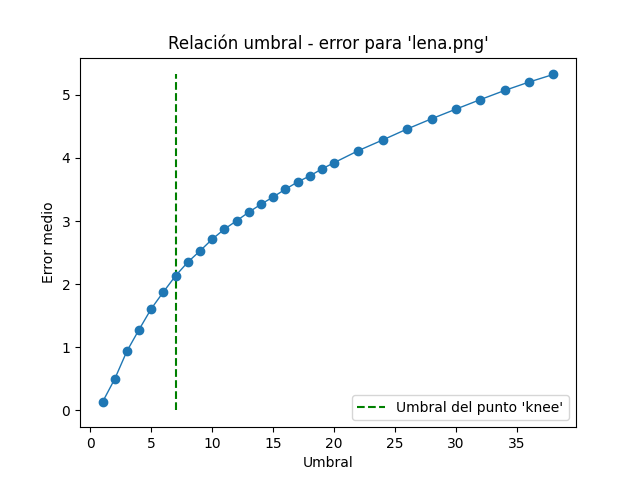
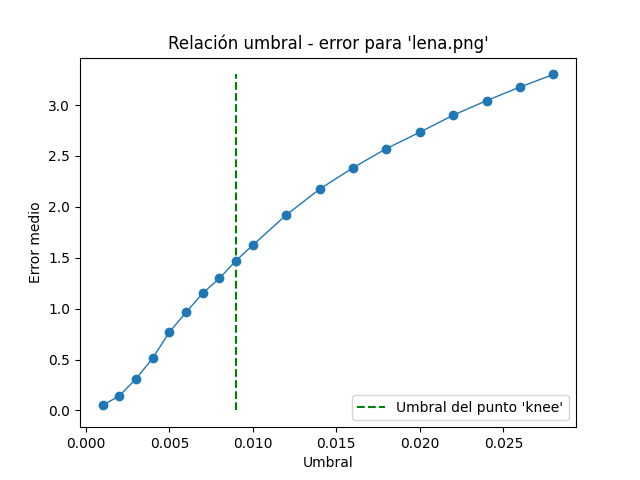
reestructurando 2

diff --git a/signal_code/tfg_signal.py b/signal_code/tfg_signal.py
@@ -427,7 +427,7 @@ def optimization_thr(signal_f, dom, N, signal_title, show_n_save = True):
     thrs = []; errs = []; pers = [];
 
     for thr in range(1,200,5):
-        thr = thr/100
+        thr = thr/1000
         err, per = experiment_opt(signal, N, thr)
         thrs.append(thr); errs.append(err); pers.append(per);
 
@@ -495,14 +495,23 @@ def optimization_N(signal_f, dom, thr, signal_title, show_n_save = True):
 
     Ns = []; errs = []; pers = [];
 
-    for N in range(3,15):
+    for N in range(5,15):
         puntos = np.linspace(dom[0], dom[1], num=2**N)
         signal = np.empty((2**N), dtype=np.float64)
         for i in range(2**N):
             signal[i] = signal_f(puntos[i])
         err, per = experiment_opt(signal, 2**N, thr)
-        Ns.append(2**N); errs.append(err); pers.append(per);
+        Ns.append(N); errs.append(err); pers.append(per);
+    """
 
+    for N in range(20,100,10):
+        puntos = np.linspace(dom[0], dom[1], num=2**N)
+        signal = np.empty((N), dtype=np.float64)
+        for i in range(N):
+            signal[i] = signal_f(puntos[i])
+        err, per = experiment_opt(signal, N, thr)
+        Ns.append(N); errs.append(err); pers.append(per);
+    """
     if(signal_title!=""): # Imprimo las listas
         print("Ns:")
         print(Ns)
@@ -551,9 +560,9 @@ def optimization_thr_N(signal_f, dom, signal_title):
     print("#####################################################\n  ")
     Ns = []; thrs = []; errs = []; pers = [];
 
-    for N in range(3,14):
+    for N in range(5,14):
         thr, per, err = optimization_thr(signal_f, dom, 2**N, "", show_n_save=False)
-        Ns.append(2**N); thrs.append(thr); pers.append(per); errs.append(err);
+        Ns.append(N); thrs.append(thr); pers.append(per); errs.append(err);
 
     # Imprimo las listas
     print("Umbrales:")
@@ -625,11 +634,19 @@ def test(func):
     re = reverse_haar(ha[:1],ha[1:],0)
     print(ha)
     print(re)
-    experiment(func, [0, 2*np.pi], 512, thresholding, 0.1, "Señal en [0,2π] (ε=0.1)")
+    experiment(func, [0, 2*np.pi], 512, thresholding, 0, "Señal en [0,2π] (ε=0.1)")
     experiment(func, [0, 2*np.pi], 512, thresholding, 0.5, "Señal en [0,2π] (ε=0.5)")
-    experiment(func, [0, 2*np.pi], 512, thresholding, 2, "Señal en [0,2π] (ε=2)")
+    experiment(func, [0, 2*np.pi], 512, thresholding, 1, "Señal en [0,2π] (ε=2)")
     input("--- Pulsa 'Enter' para continuar ---\n")
 
+def test2(li):
+    #li = np.array([12, 12, 12, 12, 8, 8, 10, 10])
+    ha = haar_transform(li,[])
+    re = reverse_haar(ha[:1],ha[1:],0)
+    print(ha)
+    print(re)
+    print()
+    return re
 
 #######################
 ###       MAIN      ###
@@ -637,7 +654,7 @@ def test(func):
 
 """ Programa principal. """
 def main():
-    test(xsen_plus_xcos)
+    #test(xsen_plus_xcos)
     N = 6
     list = [['f', 'Dom(f)', 'N', 'ε', 'Descartes (%)', 'Error medio', 'Factor de compresión'],
          ['sen(x)', '[0,2π]', 512, 0.1],
@@ -649,12 +666,12 @@ def main():
 
     per = np.zeros(N); err = np.zeros(N); fac = np.zeros(N)
 
-    _, per[0], err[0], fac[0] = experiment(math.sin, [0, 2*np.pi], 512, thresholding, 0.1, "sen(x) en [0,2π] (N=512, ε=0.1)")
-    _, per[1], err[1], fac[1] = experiment(math.sin, [0, 2*np.pi], 512, thresholding, 0.5, "sen(x) en [0,2π] (N=512, ε=0.5)")
-    _, per[2], err[2], fac[2] = experiment(math.sin, [0, 2*np.pi], 512, thresholding, 2, "sen(x) en [0,2π] (N=512, ε=2)")
-    _, per[3], err[3], fac[3] = experiment(xsen_plus_xcos, [0, 2*np.pi], 512, thresholding, 0.1, "xsen(x)+xcos(x) en [0,2π] (N=512, ε=0.1)")
-    _, per[4], err[4], fac[4] = experiment(xsen_plus_xcos, [0, 2*np.pi], 512, thresholding, 0.5, "xsen(x)+xcos(x) en [0,2π] (N=512, ε=0.5)")
-    _, per[5], err[5], fac[5] = experiment(xsen_plus_xcos, [0, 2*np.pi], 512, thresholding, 2, "xsen(x)+xcos(x) en [0,2π] (N=512, ε=2)")
+    _, per[0], err[0], fac[0] = experiment(math.sin, [0, 2*np.pi], 512, thresholding, 0.005, "sen(x) en [0,2π] (N=512, ε=0.005)")
+    _, per[1], err[1], fac[1] = experiment(math.sin, [0, 2*np.pi], 512, thresholding, 0.02, "sen(x) en [0,2π] (N=512, ε=0.02)")
+    _, per[2], err[2], fac[2] = experiment(math.sin, [0, 2*np.pi], 512, thresholding, 0.08, "sen(x) en [0,2π] (N=512, ε=0.08)")
+    _, per[3], err[3], fac[3] = experiment(xsen_plus_xcos, [0, 2*np.pi], 512, thresholding, 0.005, "xsen(x)+xcos(x) en [0,2π] (N=512, ε=0.005)")
+    _, per[4], err[4], fac[4] = experiment(xsen_plus_xcos, [0, 2*np.pi], 512, thresholding, 0.02, "xsen(x)+xcos(x) en [0,2π] (N=512, ε=0.02)")
+    _, per[5], err[5], fac[5] = experiment(xsen_plus_xcos, [0, 2*np.pi], 512, thresholding, 0.08, "xsen(x)+xcos(x) en [0,2π] (N=512, ε=0.08)")
 
     for k in range(1,N+1):
         list[k].append(per[k-1])
@@ -666,8 +683,8 @@ def main():
 
     optimization_thr(math.sin, [0, 2*np.pi], 512, "sen(x) en [0,2π]")
     optimization_thr(xsen_plus_xcos, [0, 2*np.pi], 512, "xsen(x)+xcos(x) en [0,2π]")
-    optimization_N(math.sin, [0, 2*np.pi], 0.3, "sen(x) en [0,2π]")
-    optimization_N(xsen_plus_xcos, [0, 2*np.pi], 0.3, "xsen(x)+xcos(x) en [0,2π]")
+    optimization_N(math.sin, [0, 2*np.pi], 0.05, "sen(x) en [0,2π]")
+    optimization_N(xsen_plus_xcos, [0, 2*np.pi], 0.15, "xsen(x)+xcos(x) en [0,2π]")
     optimization_thr_N(math.sin, [0, 2*np.pi], "sen(x) en [0,2π]")
     optimization_thr_N(xsen_plus_xcos, [0, 2*np.pi], "xsen(x)+xcos(x) en [0,2π]")
 

diff --git a/img_code/tfg_img.py b/img_code/tfg_img.py
@@ -157,6 +157,10 @@ def haar_transform(list, offset):
         return haar_transform(avgs, difs + offset)
 
     else:
+        for i in range(len(list)):
+            list[i] = list[i] / math.sqrt(len(list)+len(offset))
+        for i in range(len(offset)):
+            offset[i] = offset[i] / math.sqrt(len(list)+len(offset))
         return list + offset
 
 """ Calcula la transformada de Haar por filas de una imágen.
@@ -197,18 +201,20 @@ def haar_image(img, img_title=""):
 - power: 2 elevado a este exponente me dice el índice de the_rest en la lista.
 """
 def reverse_haar(front, the_rest, power):
-	reverse = []
+    reverse = []
 
-	for i in range(len(front)):
-		reverse.append((front[i] + the_rest[i]) / math.sqrt(2))
-		reverse.append((front[i] - the_rest[i]) / math.sqrt(2))
+    for i in range(len(front)):
+        reverse.append((front[i] + the_rest[i]) / math.sqrt(2))
+        reverse.append((front[i] - the_rest[i]) / math.sqrt(2))
 
-	if(len(the_rest) > len(reverse)):
-		the_rest = the_rest[2**power:]
-		power += 1
-		return reverse_haar(reverse, the_rest, power)
-	else:
-		return reverse
+    if(len(the_rest) > len(reverse)):
+        the_rest = the_rest[2**power:]
+        power += 1
+        return reverse_haar(reverse, the_rest, power)
+    else:
+        for i in range(len(reverse)):
+            reverse[i] = reverse[i] * math.sqrt(len(reverse))
+        return reverse
 
 """ Dada una transformada de Haar de una imagen calcula su inversa por filas.
 Devuelve la inversa por filas.
@@ -434,7 +440,7 @@ Devuelve la imagen recortada.
 - img_title(op): título de la imagen. Por defecto "".
 """
 def crop_size(img, rows, cols, img_title=""):
-    if(len(img)!=rows or len(img[0]!=cols)):
+    if(img.shape[0]!=rows or img.shape[1]!=cols):
         if(img_title != ""):
             if(len(img.shape)==2):
                 print("Recortando imagen '{}' a tamaño ({}, {}).".format(img_title, rows, cols))
@@ -760,10 +766,12 @@ def optimization(img_title, flag):
     print("Tamaño de la imagen: {}.".format(img.shape))
     thrs = []; errs = []; pers = []; rats = []
 
-    for thr in range(1,20,1):
+    for thr in range(1,10,1):
+        thr = thr / 1000
         err, per, rat = experiment_opt(img, thr)
         thrs.append(thr); errs.append(err); pers.append(per); rats.append(rat)
-    for thr in range(20,40,2):
+    for thr in range(10,30,2):
+        thr = thr / 1000
         err, per, rat = experiment_opt(img, thr)
         thrs.append(thr); errs.append(err); pers.append(per); rats.append(rat)
 
@@ -835,28 +843,31 @@ def main():
         [22, 20, 20, 20, 14, 14, 4, 4]
     ])
     print(mat)
-    print(haar_image(mat))
+    ha = haar_image(mat)
+    re = reverse_image(ha)
+    print(ha)
+    print(re)
     N = 8
     list = [['Ejemplo', 'Umbral', 'Descartes (%)', 'Ratio dispersión', 'Error medio', 'Factor de compresión'],
-         ['Lena', 3.0],
-         ['León', 3.0],
-         ['Lena', 40.0],
-         ['León', 50.0],
-         ['Lena (color)', 3.0],
-         ['Alhambra', 3.0],
-         ['Lena (color)', 40.0],
-         ['Alhambra', 40.0]]
+         ['Lena', 0.005],
+         ['León', 0.005],
+         ['Lena', 0.05],
+         ['León', 0.05],
+         ['Lena (color)', 0.005],
+         ['Alhambra', 0.005],
+         ['Lena (color)', 0.05],
+         ['Alhambra', 0.05]]
 
     per = np.zeros(N); rat = np.zeros(N); err = np.zeros(N); fac = np.zeros(N)
 
-    _, per[0], rat[0], err[0], fac[0] = experiment("lena.png", 0, thresholding, 3.0, show_im=False, save_im=False)
-    _, per[1], rat[1], err[1], fac[1] = experiment("lion.png", 0, thresholding, 3.0, show_im=False, save_im=False)
-    _, per[2], rat[2], err[2], fac[2] = experiment("lena.png", 0, thresholding, 40.0, show_im=False, save_im=False)
-    _, per[3], rat[3], err[3], fac[3] = experiment("lion.png", 0, thresholding, 40.0, show_im=False, save_im=False)
-    _, per[4], rat[4], err[4], fac[4] = experiment("lena_color.png", 1, thresholding, 3.0, show_im=False, save_im=False)
-    _, per[5], rat[5], err[5], fac[5] = experiment("alham.png", 1, thresholding, 3.0, show_im=False, save_im=False)
-    _, per[6], rat[6], err[6], fac[6] = experiment("lena_color.png", 1, thresholding, 40.0, show_im=False, save_im=False)
-    _, per[7], rat[7], err[7], fac[7] = experiment("alham.png", 1, thresholding, 40.0, show_im=False, save_im=False)
+    _, per[0], rat[0], err[0], fac[0] = experiment("lena.png", 0, thresholding, 0.005, show_im=False, save_im=False)
+    _, per[1], rat[1], err[1], fac[1] = experiment("lion.png", 0, thresholding, 0.005, show_im=False, save_im=False)
+    _, per[2], rat[2], err[2], fac[2] = experiment("lena.png", 0, thresholding, 0.05, show_im=False, save_im=False)
+    _, per[3], rat[3], err[3], fac[3] = experiment("lion.png", 0, thresholding, 0.05, show_im=False, save_im=False)
+    _, per[4], rat[4], err[4], fac[4] = experiment("lena_color.png", 1, thresholding, 0.005, show_im=False, save_im=False)
+    _, per[5], rat[5], err[5], fac[5] = experiment("alham.png", 1, thresholding, 0.005, show_im=False, save_im=False)
+    _, per[6], rat[6], err[6], fac[6] = experiment("lena_color.png", 1, thresholding, 0.05, show_im=False, save_im=False)
+    _, per[7], rat[7], err[7], fac[7] = experiment("alham.png", 1, thresholding, 0.05, show_im=False, save_im=False)
 
     for k in range(1,N+1):
         list[k].append(per[k-1])
